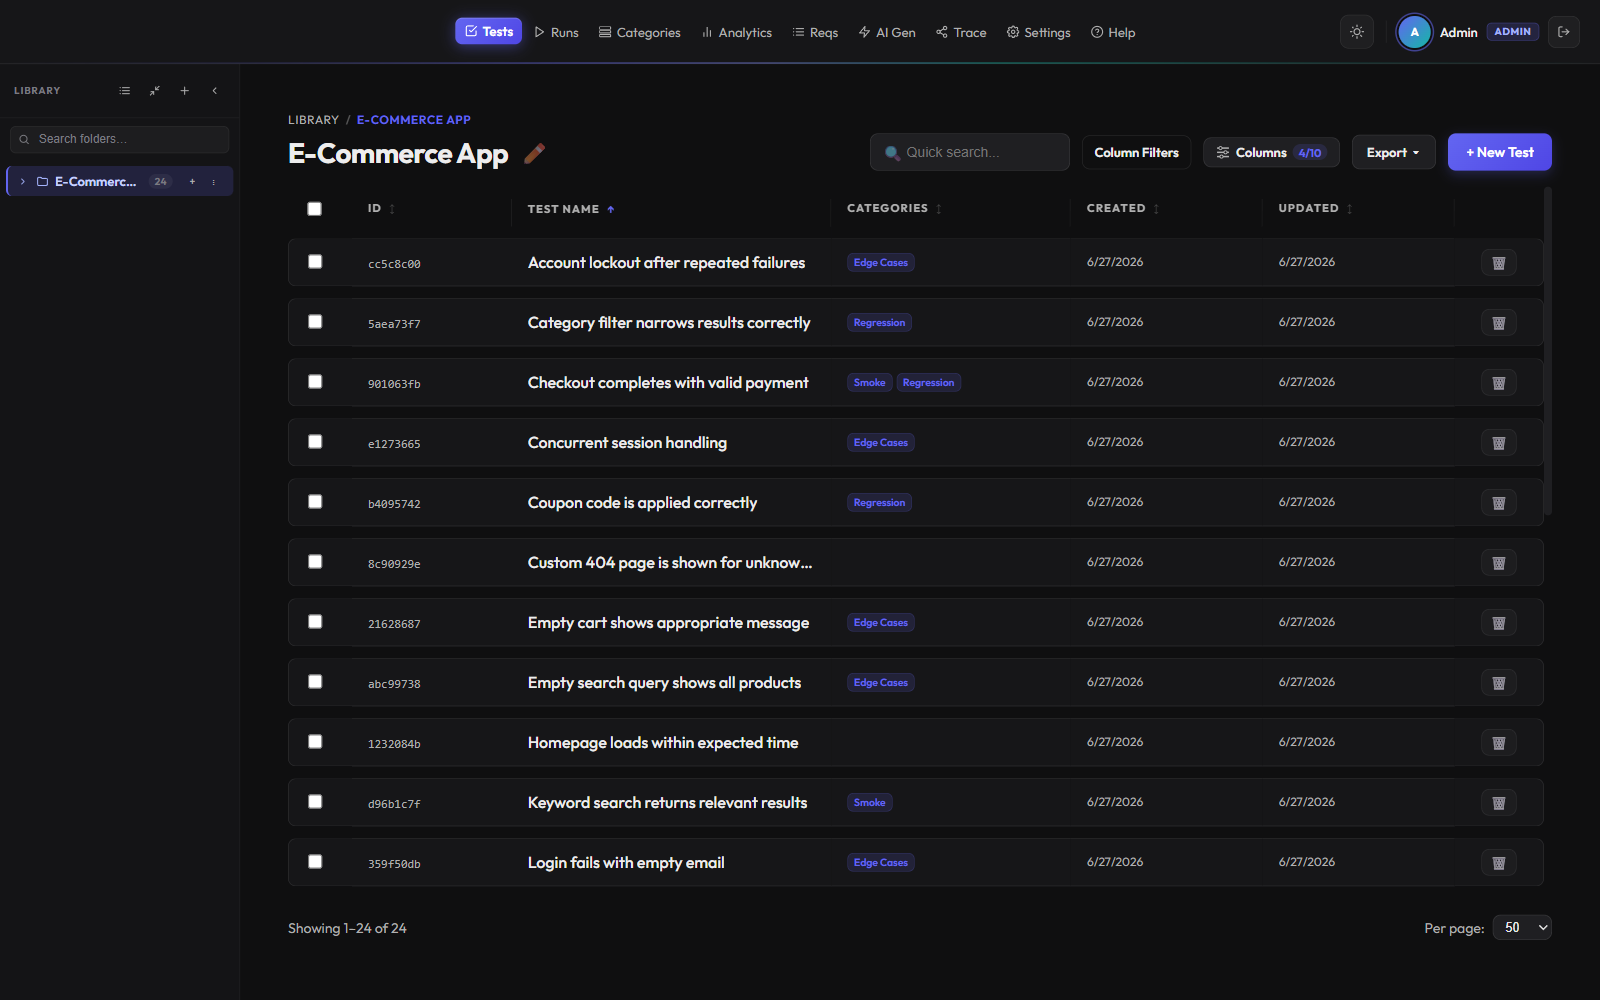
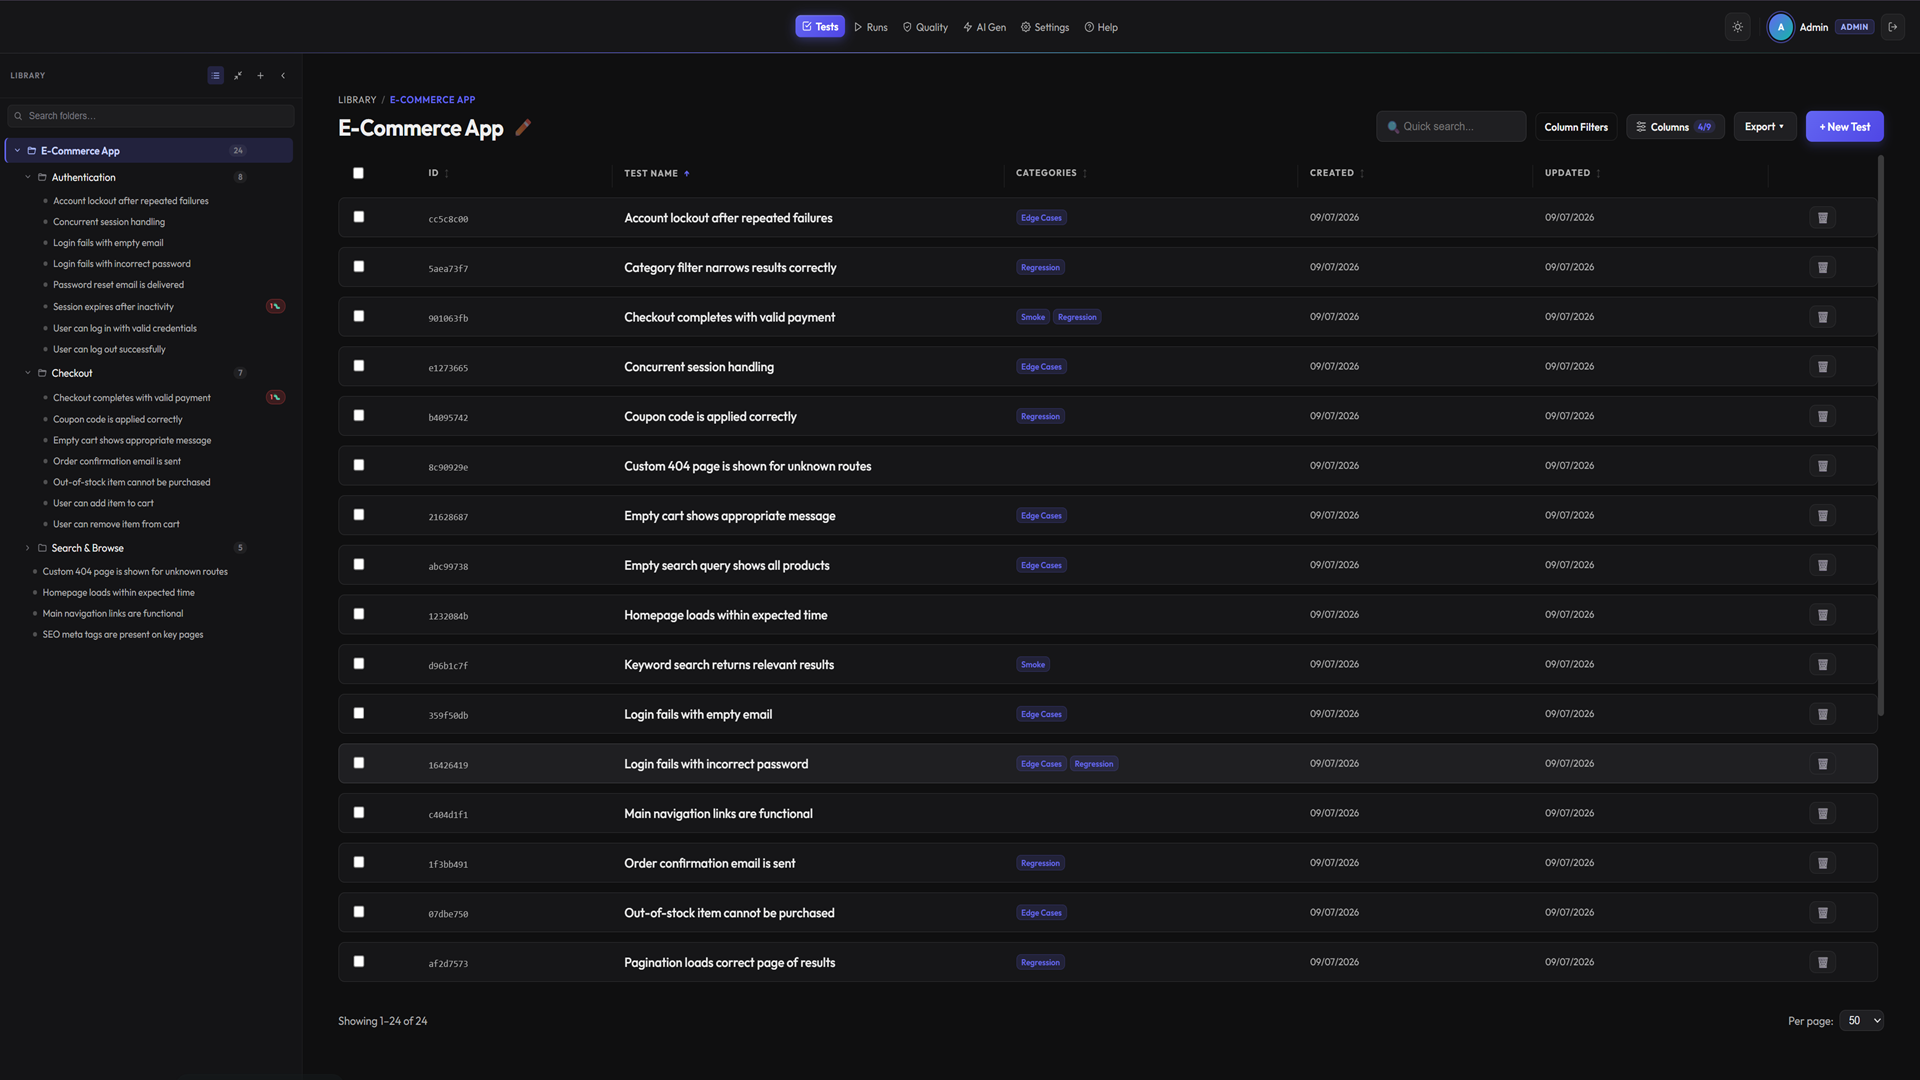
feat(site): SEO metadata + refreshed test-library screenshot
Landing-page (gh-pages) technical SEO aimed at category search
("self-hosted test management", "TestRail alternative"):
- keyword-led H1 and compare heading; free/self-hosted eyebrow
- SoftwareApplication + FAQPage JSON-LD (offers price 0 = free)
- canonical, og:url/og:site_name, absolute og:image, Twitter card
- add sitemap.xml
- refresh test-library screenshot to current UI

diff --git a/index.html b/index.html
@@ -3,21 +3,102 @@
 <head>
   <meta charset="UTF-8" />
   <meta name="viewport" content="width=device-width, initial-scale=1.0" />
-  <title>TTGO — Self-hosted, source-available test management</title>
-  <meta name="description" content="TTGO is a modern, self-hosted, source-available test management platform — rich test cases, run execution, analytics, AI test generation and a first-class CLI, all from a single Go binary and one SQLite file." />
+  <title>TTGO — Free self-hosted test management &amp; TestRail alternative</title>
+  <meta name="description" content="TTGO is a free, self-hosted, source-available test management platform — a modern alternative to TestRail, Xray and qTest. Rich test cases, run execution, analytics with flaky-test detection, requirements traceability, AI test generation and a first-class CLI, all from a single Go binary and one SQLite file." />
   <meta name="theme-color" content="#0b0b12" />
+  <link rel="canonical" href="https://runetsk.github.io/ttgo/" />
 
   <!-- Open Graph -->
   <meta property="og:type" content="website" />
-  <meta property="og:title" content="TTGO — Self-hosted test management" />
-  <meta property="og:description" content="Own your data, automate everything. A modern self-hosted alternative to TestRail, Xray and qTest." />
-  <meta property="og:image" content="images/01-test-library.png" />
+  <meta property="og:url" content="https://runetsk.github.io/ttgo/" />
+  <meta property="og:site_name" content="TTGO" />
+  <meta property="og:title" content="TTGO — Free self-hosted test management &amp; TestRail alternative" />
+  <meta property="og:description" content="Own your data, automate everything. A modern, free, self-hosted alternative to TestRail, Xray and qTest." />
+  <meta property="og:image" content="https://runetsk.github.io/ttgo/images/01-test-library.png" />
+  <meta property="og:image:alt" content="TTGO test library — hierarchical folder tree, a filterable test grid and categories" />
+
+  <!-- Twitter -->
+  <meta name="twitter:card" content="summary_large_image" />
+  <meta name="twitter:title" content="TTGO — Free self-hosted test management &amp; TestRail alternative" />
+  <meta name="twitter:description" content="Own your data, automate everything. A modern, free, self-hosted alternative to TestRail, Xray and qTest." />
+  <meta name="twitter:image" content="https://runetsk.github.io/ttgo/images/01-test-library.png" />
 
   <link rel="icon" type="image/svg+xml" href="ttgo-icon.svg" />
   <link rel="preconnect" href="https://fonts.googleapis.com" />
   <link rel="preconnect" href="https://fonts.gstatic.com" crossorigin />
   <link href="https://fonts.googleapis.com/css2?family=Inter:wght@400;500;600;700;800&family=JetBrains+Mono:wght@400;600&display=swap" rel="stylesheet" />
   <link rel="stylesheet" href="styles.css" />
+
+  <!-- Structured data: software + FAQ -->
+  <script type="application/ld+json">
+  {
+    "@context": "https://schema.org",
+    "@type": "SoftwareApplication",
+    "name": "TTGO",
+    "applicationCategory": "DeveloperApplication",
+    "operatingSystem": "Linux, macOS, Windows, Docker",
+    "url": "https://runetsk.github.io/ttgo/",
+    "downloadUrl": "https://github.com/runetsk/ttgo",
+    "description": "TTGO is a free, self-hosted, source-available test management platform — a modern alternative to TestRail, Xray and qTest. Rich test cases with version history, run execution with defect tracking, analytics with flaky-test detection, requirements traceability, AI test generation and a first-class CLI, all from a single Go binary and one SQLite file.",
+    "license": "https://polyformproject.org/licenses/shield/1.0.0",
+    "screenshot": "https://runetsk.github.io/ttgo/images/01-test-library.png",
+    "softwareHelp": "https://github.com/runetsk/ttgo#readme",
+    "featureList": [
+      "Test case management with rich text and full version history",
+      "Test run execution with pass/fail and native defect tracking",
+      "Analytics with flaky-test detection and run comparison",
+      "Requirements traceability matrix",
+      "AI test generation with your own LLM provider",
+      "First-class CLI and documented REST API",
+      "Real-time collaboration over WebSocket"
+    ],
+    "offers": {
+      "@type": "Offer",
+      "price": "0",
+      "priceCurrency": "USD"
+    }
+  }
+  </script>
+  <script type="application/ld+json">
+  {
+    "@context": "https://schema.org",
+    "@type": "FAQPage",
+    "mainEntity": [
+      {
+        "@type": "Question",
+        "name": "Is TTGO free?",
+        "acceptedAnswer": {
+          "@type": "Answer",
+          "text": "Yes. TTGO is source-available under the PolyForm Shield license and free to self-host — no per-seat fees and no time limits. You only pay for the infrastructure you run it on."
+        }
+      },
+      {
+        "@type": "Question",
+        "name": "Is TTGO a free alternative to TestRail, Xray or qTest?",
+        "acceptedAnswer": {
+          "@type": "Answer",
+          "text": "Yes. TTGO offers the core capabilities QA teams expect from TestRail, Xray and qTest — test cases with version history, run execution, analytics with flaky-test detection, requirements traceability and a REST API — self-hosted and free, with no per-seat license."
+        }
+      },
+      {
+        "@type": "Question",
+        "name": "Can I self-host TTGO?",
+        "acceptedAnswer": {
+          "@type": "Answer",
+          "text": "Yes. TTGO runs entirely on your own infrastructure as a single Go binary against one SQLite file, or via Docker Compose. Nothing leaves your network."
+        }
+      },
+      {
+        "@type": "Question",
+        "name": "Does TTGO support AI test generation?",
+        "acceptedAnswer": {
+          "@type": "Answer",
+          "text": "Yes. TTGO can draft test cases from your requirements using your own LLM provider (bring your own key), with a review-and-approve flow so nothing is saved until you accept it."
+        }
+      }
+    ]
+  }
+  </script>
 </head>
 <body>
   <!-- ───────────────────────── Nav ───────────────────────── -->
@@ -49,8 +130,8 @@
     <section class="hero">
       <div class="hero__glow" aria-hidden="true"></div>
       <div class="container hero__inner">
-        <p class="eyebrow reveal">Self-hosted · Source-available</p>
-        <h1 class="hero__title reveal">Test management that's<br /><span class="grad">actually yours.</span></h1>
+        <p class="eyebrow reveal">Free · Self-hosted · Source-available</p>
+        <h1 class="hero__title reveal">Self-hosted test management<br />that's <span class="grad">actually yours.</span></h1>
         <p class="hero__sub reveal">
           TTGO is a modern, self-hosted test management platform — rich test cases, run
           execution, analytics, AI test generation and a first-class CLI, all running as a
@@ -186,8 +267,8 @@
     <section class="section section--alt" id="compare">
       <div class="container">
         <header class="section__head reveal">
-          <h2>How TTGO compares</h2>
-          <p>Against popular commercial and self-hosted test management tools.</p>
+          <h2>TTGO vs TestRail, Xray &amp; qTest</h2>
+          <p>How TTGO compares to popular commercial and self-hosted test management tools — TestRail, Xray, qTest, Kiwi&nbsp;TCMS and Qase.</p>
         </header>
         <div class="table-wrap reveal">
           <table class="compare">
